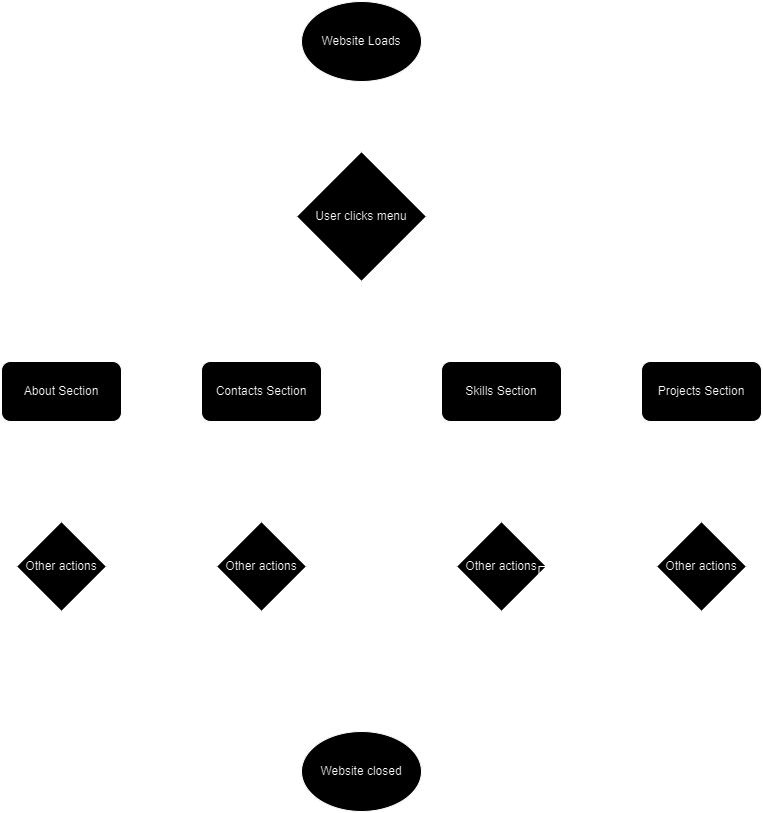
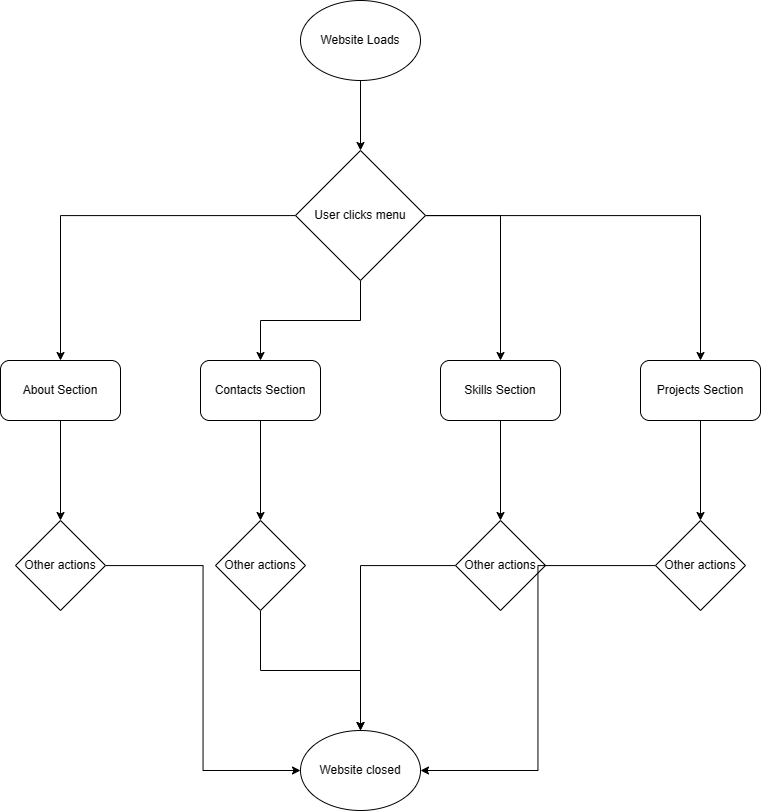
feat(docs): added screenshots

diff --git a/static/css/style.css b/static/css/style.css
@@ -145,7 +145,9 @@ li {
 }
 
 .card {
+  display: block;
   background-color: var(--light-color);
+  color: var(--dark-color);
   border-radius: 10px;
   box-shadow: 0 0 10px rgba(0, 0, 0, 0.3);
 }

diff --git a/README.md b/README.md
@@ -5,25 +5,36 @@ The main objectives are:
 
 - An overview about myself
 - My projects and a description of the functionality of the projects
-- The skills that I have learnt throughout the ALX journey
+- The skills that I have accrued throughout my time as a developer
 - Contact information
 
-## Features and Functionality
+## Features & Functionality
 
 - [About](#about)
 - [Projects](#projects)
 - [Skills](#skills)
-- [Getting Started](#getting_started)
-- [Installing](#installing)
-- [Usage](#usage)
-- [Contributing](#contributing)
+- [Contact](#contact)
 
-## Technologies used
+## Technologies Used
 
 - HTML
 - CSS
 - JavaScript
+- Python
+- Flask
 - Git
+  
+## Project Screenshot
+<table>
+<tr>
+<td valign="top" width="50%">
+
+![Flow Chart](<./screenshots/portfolio-screenshot.jpeg>)</td>
+<td valign="top" width="50%">
+
+</td>
+</tr>
+</table>
 
 ## Project Workflow & flowchart
 
@@ -33,11 +44,31 @@ The project in development is a personal portfolio website, which has the main o
 - Include sections for an “about me”, skills, projects, and contact information.
 - Display your projects with brief descriptions, images, and links to live demos or source code repositories.
 
-![Alt text](<./screenshots/portfolio-flowchart.png>)
+<table>
+<tr>
+<td valign="top" width="50%">
+
+![Flow Chart](<./screenshots/portfolio-flowchart.png>)</td>
+<td valign="top" width="50%">
+
+</td>
+</tr>
+</table>
 
 ## Design of the prototype
 
-Here is a link to the [design](https://www.linkedin.com/in/logickoder) which shows the expected structure of the project
+Here is the low fidelity prototype of the portfolio website:
+<table>
+<tr>
+<td valign="top" width="50%">
+
+
+![Mockup](<./screenshots/portfolio-prototye.png>)</td>
+<td valign="top" width="50%">
+
+</td>
+</tr>
+</table>
 
 ## Roadmap and future enhancements
 
